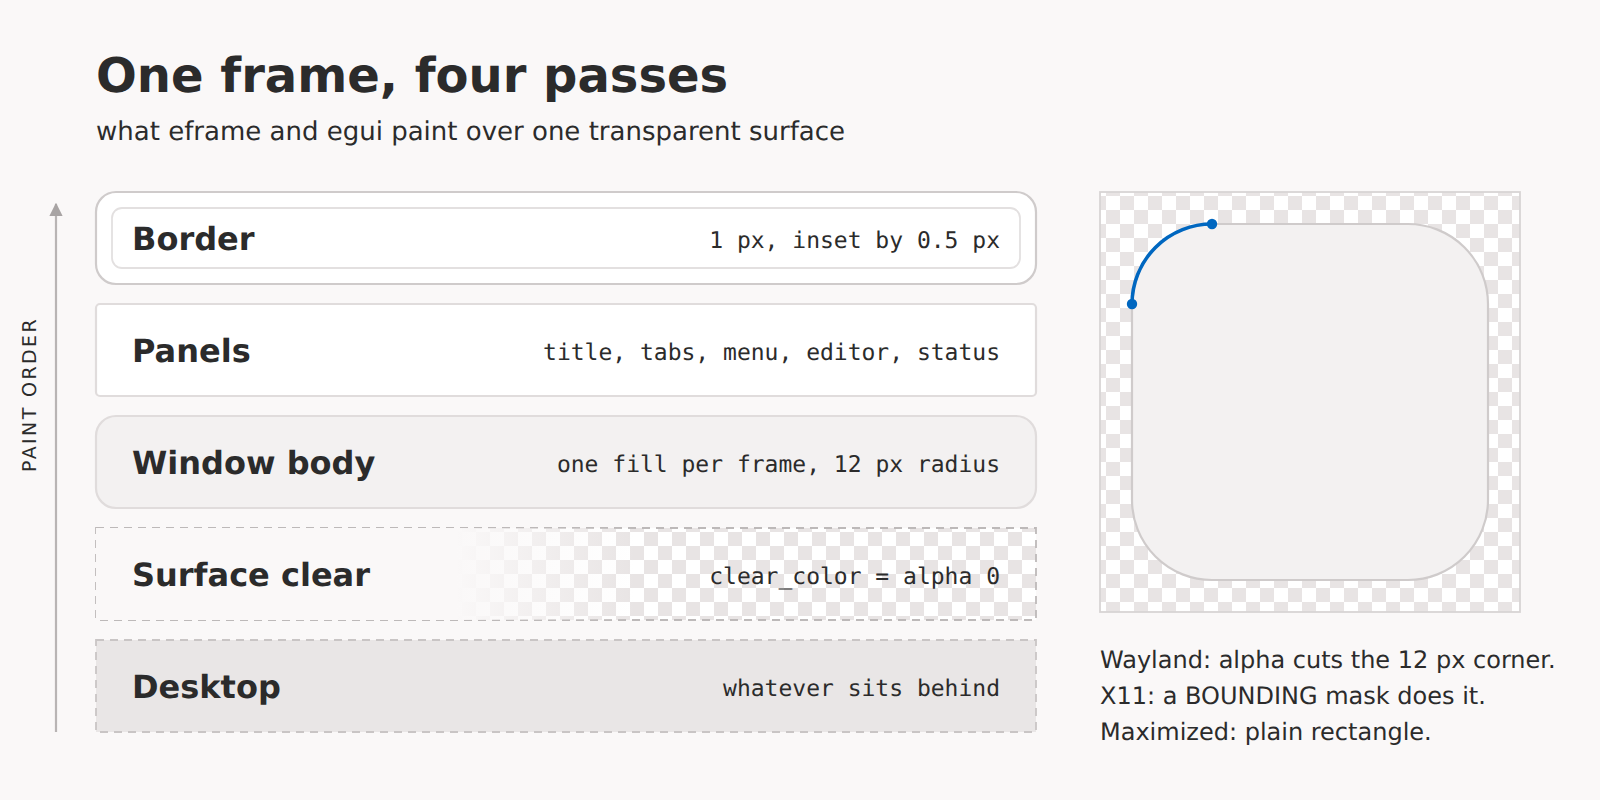
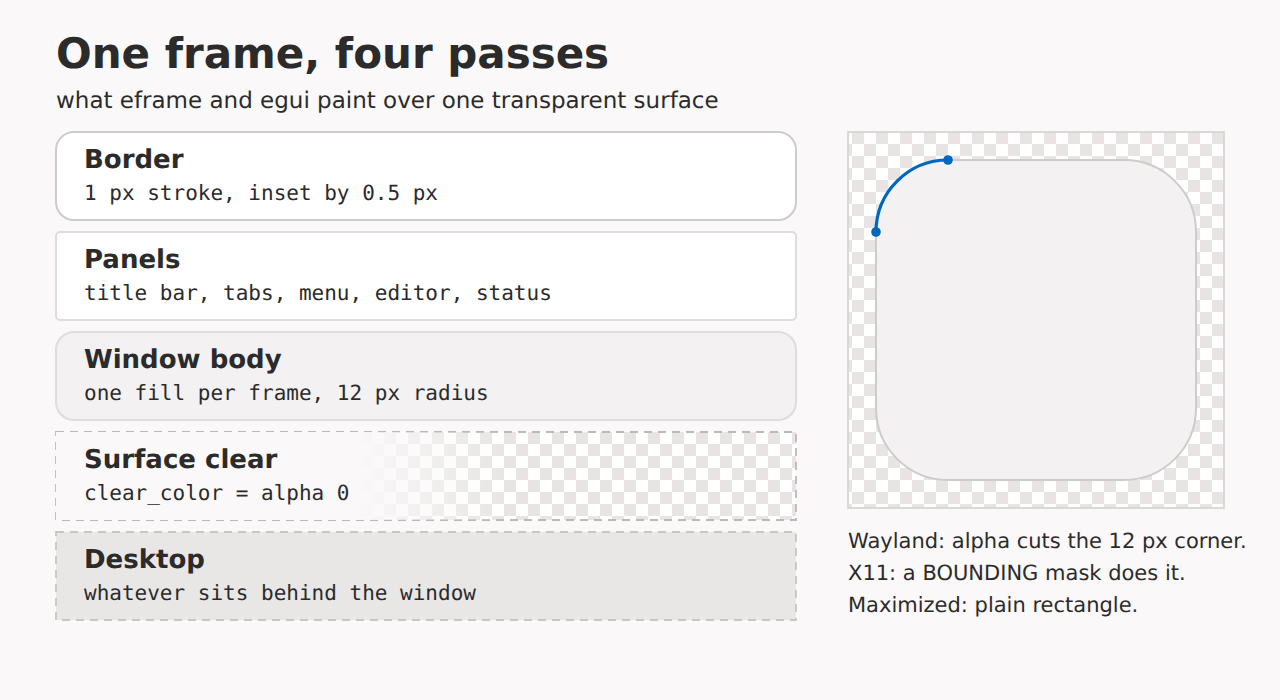
post: sharpen the diagrams and add alt text

diff --git a/content/Building a Windows 11 Notepad for Linux.md b/content/Building a Windows 11 Notepad for Linux.md
@@ -2,7 +2,7 @@ Windows 11 Notepad is one of the few default apps I like. It opens fast, keeps t
 
 By 3 November it was 17 commits, about 3,600 lines in src, and 15 tagged releases from 0.2.0 to 0.4.9. The text editor was the easy half. egui already has a multiline TextEdit, so the work went into the frame: a title bar, tab strip, menu bar, status bar and two file dialogs that I drew myself, because matching the Windows 11 app matters more than being another generic Linux editor.
 
-![[elevenpad-light.png]]
+![[elevenpad-light.png|Elevenpad in the light theme, with two tabs and the Windows 11 title bar]]
 
 *The light theme, drawn offscreen by shot.rs on a machine with no display.*
 
@@ -10,7 +10,7 @@ By 3 November it was 17 commits, about 3,600 lines in src, and 15 tagged release
 
 The window is created with decorations off and a transparent surface, so every pixel of chrome, including the caption buttons and the 6 px band that resizes the window, is egui drawing. Most of the bugs came from that.
 
-![[elevenpad-frame-passes.png]]
+![[elevenpad-frame-passes.png|Diagram of the four paint passes: border, panels, window body, and a transparent surface clear]]
 
 *Four passes over a transparent surface. The border is a stroke inset by half a pixel.*
 
@@ -20,13 +20,13 @@ The border left a black band on X11. I stroked a 1 px frame on the window edge, 
 
 Plain X11 needed the window actually cut. src/shape.rs is about 150 lines that use the X Shape extension through x11rb: find the app window by _NET_WM_PID, fall back to WM_CLASS containing "elevenpad", draw a filled polygon into a 1 bit pixmap (nine points per corner), and apply it as the BOUNDING shape. A maximized window gets a plain rectangle. Each apply opens its own X connection and walks the root window's children on a background thread, so it runs only after a size change of more than a pixel, at most every 0.15 seconds, and only one at a time behind an AtomicBool. Windows can disappear mid-walk, so those errors are dropped. On Wayland the whole thing returns early and the compositor uses the alpha channel.
 
-![[elevenpad-shape-mask.png]]
+![[elevenpad-shape-mask.png|Diagram of the X11 shape mask: find the window, draw a 1-bit mask, apply the bounding shape, rounded window]]
 
 *What shape.rs does, once per resize. None of it runs on Wayland.*
 
 Since there are no decorations, the last problem was resizing. native_resize hit tests a 6 px band inside each edge every frame, sends BeginResize, and then removes the pointer press from the event queue so the widget underneath the border does not also react to it. Without that, the widget under the border would see the press as well.
 
-![[elevenpad-dark.png]]
+![[elevenpad-dark.png|Elevenpad in the dark theme]]
 
 *The same frame in the dark palette.*
 
@@ -51,7 +51,7 @@ The lag had a second cause. Resize events arrive coalesced, so the compositor ke
 
 src/syntax.rs is a hand written scanner over bytes, not a parser. Comments go first, then strings, numbers and identifiers, one pass per layout, no dependencies, and it falls back to plain text above 300 KB. Rust gets a special case: an apostrophe can start a char literal or a lifetime, so it counts as a literal only when a closing quote turns up within the next five bytes. An identifier followed by a parenthesis is a function, a leading uppercase word is a type, and the keyword tables cover 13 languages. JSON keys take the function colour when the next non space byte is a colon. It is not a real highlighter, but it runs inside the layout callback on every keystroke, and the plain fallback during a resize is why the window still tracks the pointer.
 
-![[elevenpad-syntax.png]]
+![[elevenpad-syntax.png|Rust syntax highlighting in the Elevenpad editor]]
 
 *Rust highlighting, no parser and no tree-sitter.*
 
@@ -63,7 +63,7 @@ The build machine has no display, so I could not look at the app there while bui
 
 src/bin/shot.rs runs the whole UI inside an egui::Context with a fake 1040 by 700 viewport, sends synthetic hover, press, click and resize events, tessellates the output, and renders it with egui_wgpu into an offscreen texture on Vulkan, which on a headless box means lavapipe. It copies the texture back through a buffer, respecting COPY_BYTES_PER_ROW_ALIGNMENT (rows are padded to 256 bytes and stripped again), and writes a PNG. Flags pick the state: --dark, --find, --syntax, --save-dialog, --rows, --hover-at=x,y, --press-at=x,y, --resize-test. The screenshots in the README come from this binary, and --resize-test prints the viewport commands, which is how I checked that BeginResize fires from the border band without a compositor.
 
-![[elevenpad-find.png]]
+![[elevenpad-find.png|The find bar open over the editor]]
 
 *The find bar, one of the states shot.rs can render without a display.*
 
